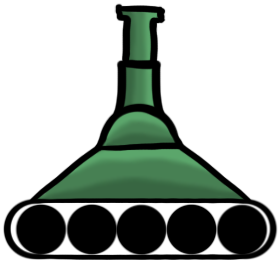
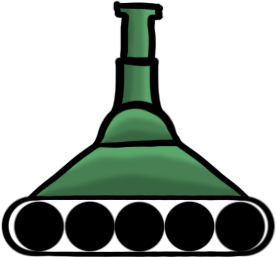
Trimmed tank image and set it so it isn't underground in game

Changed region(s): [[0.0, 0.3424, 1.0, 1.0], [0.4058, 0.0, 0.6087, 0.3113]]

diff --git a/Flip_Tank/Game1.cs b/Flip_Tank/Game1.cs
@@ -16,7 +16,7 @@ namespace Flip_Tank
         public static int GAME_WIDTH;
         public static int GAME_HEIGHT;
 
-        Player p1 = new Player(0, 360, 70, 70); //creates player object
+        Player p1 = new Player(0, 352, 70, 70); //creates player object
 
         //Wave variables
         Wave currWave; // current wave object
